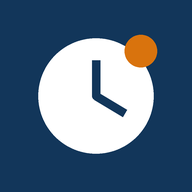
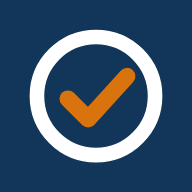
Agregar edición, confirmación al quitar, sonido prolongado e íconos nuevos

diff --git a/app.js b/app.js
@@ -7,7 +7,7 @@ function fresh(){return {account:null,caregiver:null,meds:[],appts:[],log:{},dem
 function load(){try{var s=localStorage.getItem(KEY);if(s)return JSON.parse(s)}catch(e){}return mem||fresh()}
 var S=load();
 function save(){mem=S;try{localStorage.setItem(KEY,JSON.stringify(S))}catch(e){}}
-var tab='hoy', addKind='med', queue=[], modalOpen=false, audioCtx=null, toastT=null, extraTimes=1;
+var tab='hoy', addKind='med', queue=[], modalOpen=false, audioCtx=null, toastT=null, extraTimes=1, editing=null;
 
 /* ---------- utilidades ---------- */
 function esc(s){return String(s==null?'':s).replace(/[&<>"']/g,function(c){return {'&':'&amp;','<':'&lt;','>':'&gt;','"':'&quot;',"'":'&#39;'}[c]})}
@@ -47,6 +47,14 @@ function beep(){try{audioCtx=audioCtx||new (window.AudioContext||window.webkitAu
   [0,.28,.56].forEach(function(o){var s=audioCtx.createOscillator(),g=audioCtx.createGain();s.frequency.value=880;s.connect(g);g.connect(audioCtx.destination);
     g.gain.setValueAtTime(.0001,t+o);g.gain.exponentialRampToValueAtTime(.25,t+o+.03);g.gain.exponentialRampToValueAtTime(.0001,t+o+.22);s.start(t+o);s.stop(t+o+.25)})}catch(e){}
   try{navigator.vibrate&&navigator.vibrate([200,100,200])}catch(e){}}
+/* alarma del recordatorio: se repite cerca de un minuto o hasta que la persona toque un botón */
+var alarmT=null, ALARM_MAX=24;
+function ringOnce(){try{audioCtx=audioCtx||new (window.AudioContext||window.webkitAudioContext)();if(audioCtx.state==='suspended')audioCtx.resume();var t=audioCtx.currentTime;
+  [[880,0],[1047,.4],[1319,.8]].forEach(function(n){var s=audioCtx.createOscillator(),g=audioCtx.createGain();s.type='square';s.frequency.value=n[0];s.connect(g);g.connect(audioCtx.destination);
+    g.gain.setValueAtTime(.0001,t+n[1]);g.gain.exponentialRampToValueAtTime(.2,t+n[1]+.03);g.gain.setValueAtTime(.2,t+n[1]+.3);g.gain.exponentialRampToValueAtTime(.0001,t+n[1]+.38);s.start(t+n[1]);s.stop(t+n[1]+.4)})}catch(e){}
+  try{navigator.vibrate&&navigator.vibrate([400,150,400,150,400])}catch(e){}}
+function startAlarm(){stopAlarm();var n=0;ringOnce();alarmT=setInterval(function(){n++;if(n>=ALARM_MAX){stopAlarm();return}ringOnce()},2500)}
+function stopAlarm(){if(alarmT){clearInterval(alarmT);alarmT=null}try{navigator.vibrate&&navigator.vibrate(0)}catch(e){}}
 function notify(d){try{if(window.Notification&&Notification.permission==='granted')new Notification('Es hora de su medicamento',{body:d.name+(d.dose?' · '+d.dose:'')})}catch(e){}}
 
 /* ---------- recordatorio (ventana) ---------- */
@@ -59,13 +67,20 @@ function tick(){
   if(!modalOpen&&queue.length)showReminder(queue.shift());
   if(tab==='hoy'&&!modalOpen)render(true)}
 function showReminder(key){var d=doses().filter(function(x){return x.key===key})[0];if(!d||status(d)==='taken'){modalOpen=false;return}
-  modalOpen=true;beep();
+  modalOpen=true;startAlarm();
   document.getElementById('layer').innerHTML='<div class="scrim"><div class="modal" role="dialog" aria-modal="true" aria-label="Recordatorio de medicamento">'+
    '<h2>Es hora de su medicamento</h2><div><div class="big">'+esc(fmtTime(d.due))+'</div><div class="name" style="font-size:1.4rem;font-weight:700">'+esc(d.name)+'</div><div class="muted">'+esc(d.dose||'')+'</div></div>'+
    '<button class="btn ok" data-act="take" data-key="'+esc(key)+'" style="min-height:76px;font-size:1.5rem">YA LO TOMÉ</button>'+
    '<button class="btn ghost" data-act="snooze" data-key="'+esc(key)+'">Recordarme en '+(d.demo?'10 segundos':'10 minutos')+'</button>'+
    '<p class="small muted">Si no confirma en '+(d.demo?'20 segundos':S.settings.graceMin+' minutos')+', se prepara un aviso para su cuidador.</p></div></div>'}
-function closeModal(){modalOpen=false;document.getElementById('layer').innerHTML='';if(queue.length)setTimeout(function(){if(!modalOpen&&queue.length)showReminder(queue.shift())},300)}
+function askDelete(kind,id){var it=(kind==='med'?S.meds:S.appts).filter(function(x){return x.id===id})[0];if(!it)return;
+  modalOpen=true;
+  document.getElementById('layer').innerHTML='<div class="scrim"><div class="modal" role="alertdialog" aria-modal="true" aria-label="Confirmar">'+
+   '<h2>'+(kind==='med'?'¿Quitar este medicamento?':'¿Quitar este control?')+'</h2><div class="name" style="font-size:1.4rem;font-weight:700">'+esc(kind==='med'?it.name:it.title)+'</div>'+
+   '<p class="muted">'+(kind==='med'?'Se borrará de su lista y no volverá a sonar.':'Se borrará de su lista de controles.')+'</p>'+
+   '<button class="btn" data-act="closemodal" style="min-height:64px">No, dejarlo</button>'+
+   '<button class="btn warn" data-act="confdel" data-k="'+kind+'" data-id="'+esc(id)+'">Sí, quitar</button></div></div>'}
+function closeModal(){stopAlarm();modalOpen=false;document.getElementById('layer').innerHTML='';if(queue.length)setTimeout(function(){if(!modalOpen&&queue.length)showReminder(queue.shift())},300)}
 
 /* ---------- vistas ---------- */
 var LOGO='<svg class="logo" viewBox="0 0 40 40" aria-hidden="true"><rect width="40" height="40" rx="11" fill="var(--primary)"/><circle cx="20" cy="20" r="10.5" fill="none" stroke="var(--on-primary)" stroke-width="2.6"/><path d="M15 20.5l3.6 3.6L25.5 16.5" fill="none" stroke="var(--accent)" stroke-width="3" stroke-linecap="round" stroke-linejoin="round"/></svg>';
@@ -99,19 +114,27 @@ function viewHoy(){
     (st==='taken'?'<button class="link" data-act="undo" data-key="'+esc(d.key)+'">Deshacer</button>':
      (st==='due'||st==='missed'?'<button class="btn ok" style="flex:1" data-act="take" data-key="'+esc(d.key)+'">Ya lo tomé</button>':'<button class="btn ghost sm" data-act="take" data-key="'+esc(d.key)+'">Marcar como tomado</button>'))+'</div></div>'});
   var up=S.appts.filter(function(a){return a.date>=dkey()}).sort(function(a,b){return (a.date+a.time)<(b.date+b.time)?-1:1});
-  h+='<div class="card"><h2 style="margin-bottom:10px">Próximos controles</h2>'+(up.length?'<div class="list">'+up.slice(0,4).map(function(a){return '<div class="item"><div><b>'+esc(a.title)+'</b><div class="muted small">'+esc(fmtDate(a.date))+' · '+esc(fmtHM(a.time))+(a.place?' · '+esc(a.place):'')+'</div></div><button class="x" aria-label="Quitar cita" data-act="delappt" data-id="'+a.id+'">×</button></div>'}).join('')+'</div>':'<p class="muted">No hay controles agendados.</p>')+'</div>';
-  if(S.meds.length){h+='<div class="card"><h2 style="margin-bottom:10px">Mis medicamentos</h2><div class="list">'+S.meds.map(function(m){return '<div class="item"><div><b>'+esc(m.name)+'</b><div class="muted small">'+esc(m.dose||'')+' · '+m.times.map(fmtHM).map(esc).join(', ')+'</div></div><button class="x" aria-label="Quitar medicamento" data-act="delmed" data-id="'+m.id+'">×</button></div>'}).join('')+'</div></div>'}
+  h+='<div class="card"><h2 style="margin-bottom:10px">Próximos controles</h2>'+(up.length?'<div class="list">'+up.slice(0,4).map(function(a){return '<div class="item"><div><b>'+esc(a.title)+'</b><div class="muted small">'+esc(fmtDate(a.date))+' · '+esc(fmtHM(a.time))+(a.place?' · '+esc(a.place):'')+'</div></div><div class="acts"><button class="btn ghost sm" data-act="edit" data-k="cita" data-id="'+a.id+'" aria-label="Editar control">Editar</button><button class="x" aria-label="Quitar cita" data-act="delappt" data-id="'+a.id+'">×</button></div></div>'}).join('')+'</div>':'<p class="muted">No hay controles agendados.</p>')+'</div>';
+  if(S.meds.length){h+='<div class="card"><h2 style="margin-bottom:10px">Mis medicamentos</h2><div class="list">'+S.meds.map(function(m){return '<div class="item"><div><b>'+esc(m.name)+'</b><div class="muted small">'+esc(m.dose||'')+' · '+m.times.map(fmtHM).map(esc).join(', ')+'</div></div><div class="acts"><button class="btn ghost sm" data-act="edit" data-k="med" data-id="'+m.id+'" aria-label="Editar medicamento">Editar</button><button class="x" aria-label="Quitar medicamento" data-act="delmed" data-id="'+m.id+'">×</button></div></div>'}).join('')+'</div></div>'}
   return h+'</div>'}
 function timeRow(v){return '<div class="trow"><input type="time" name="time" required value="'+esc(v||'08:00')+'" aria-label="Hora de toma"><button type="button" class="x" aria-label="Quitar hora" data-act="rmtime">×</button></div>'}
 function viewAgregar(){
-  var h=top()+'<div class="stack"><h1>Agregar</h1><div class="seg" role="group" aria-label="Qué desea agregar"><button data-act="kind" data-k="med" aria-pressed="'+(addKind==='med')+'">Medicamento</button><button data-act="kind" data-k="cita" aria-pressed="'+(addKind==='cita')+'">Control o cita</button></div>';
-  if(addKind==='med'){h+='<form class="card" data-form="med" autocomplete="off"><div class="field"><label for="m-name">Nombre del medicamento</label><input id="m-name" name="name" required maxlength="60" placeholder="Ejemplo: Losartán"></div>'+
-   '<div class="field"><label for="m-dose">Dosis</label><input id="m-dose" name="dose" maxlength="60" placeholder="Ejemplo: 1 tableta de 50 mg"></div>'+
-   '<div class="field times"><label>Horas de toma (todos los días)</label><div id="times">'+timeRow('08:00')+'</div><button type="button" class="btn ghost sm" data-act="addtime">+ Otra hora</button></div>'+
-   '<button class="btn" type="submit">Guardar medicamento</button><p class="hint">Escriba lo que el médico formuló. Salud Conecta no sugiere dosis.</p></form>'}
-  else{h+='<form class="card" data-form="appt" autocomplete="off"><div class="field"><label for="a-t">¿Qué control es?</label><input id="a-t" name="title" required maxlength="70" placeholder="Ejemplo: Control de medicina general"></div>'+
-   '<div class="field"><label for="a-d">Fecha</label><input id="a-d" name="date" type="date" required min="'+dkey()+'"></div><div class="field"><label for="a-h">Hora</label><input id="a-h" name="time" type="time" required value="09:00"></div>'+
-   '<div class="field"><label for="a-p">Lugar (opcional)</label><input id="a-p" name="place" maxlength="70" placeholder="Ejemplo: IPS Centro"></div><button class="btn" type="submit">Guardar control</button></form>'}
+  var em=null,ea=null;
+  if(editing){if(editing.kind==='med')em=S.meds.filter(function(m){return m.id===editing.id})[0]||null;else ea=S.appts.filter(function(m){return m.id===editing.id})[0]||null;if(!em&&!ea)editing=null}
+  var ed=!!editing, kind=ed?editing.kind:addKind;
+  var h=top()+'<div class="stack"><h1>'+(ed?(kind==='med'?'Editar medicamento':'Editar control'):'Agregar')+'</h1>';
+  if(!ed)h+='<div class="seg" role="group" aria-label="Qué desea agregar"><button data-act="kind" data-k="med" aria-pressed="'+(addKind==='med')+'">Medicamento</button><button data-act="kind" data-k="cita" aria-pressed="'+(addKind==='cita')+'">Control o cita</button></div>';
+  var cancel=ed?'<button type="button" class="btn ghost" data-act="canceledit">Cancelar</button>':'';
+  if(kind==='med'){
+    var times=em?em.times:['08:00'];
+    h+='<form class="card" data-form="med" autocomplete="off"><div class="field"><label for="m-name">Nombre del medicamento</label><input id="m-name" name="name" required maxlength="60" placeholder="Ejemplo: Losartán" value="'+esc(em?em.name:'')+'"></div>'+
+     '<div class="field"><label for="m-dose">Dosis</label><input id="m-dose" name="dose" maxlength="60" placeholder="Ejemplo: 1 tableta de 50 mg" value="'+esc(em?em.dose||'':'')+'"></div>'+
+     '<div class="field times"><label>Horas de toma (todos los días)</label><div id="times">'+times.map(timeRow).join('')+'</div><button type="button" class="btn ghost sm" data-act="addtime">+ Otra hora</button></div>'+
+     '<button class="btn" type="submit">'+(ed?'Guardar cambios':'Guardar medicamento')+'</button>'+cancel+'<p class="hint">Escriba lo que el médico formuló. Salud Conecta no sugiere dosis.</p></form>'}
+  else{
+    h+='<form class="card" data-form="appt" autocomplete="off"><div class="field"><label for="a-t">¿Qué control es?</label><input id="a-t" name="title" required maxlength="70" placeholder="Ejemplo: Control de medicina general" value="'+esc(ea?ea.title:'')+'"></div>'+
+     '<div class="field"><label for="a-d">Fecha</label><input id="a-d" name="date" type="date" required'+(ed?'':' min="'+dkey()+'"')+' value="'+esc(ea?ea.date:'')+'"></div><div class="field"><label for="a-h">Hora</label><input id="a-h" name="time" type="time" required value="'+esc(ea?ea.time:'09:00')+'"></div>'+
+     '<div class="field"><label for="a-p">Lugar (opcional)</label><input id="a-p" name="place" maxlength="70" placeholder="Ejemplo: IPS Centro" value="'+esc(ea?ea.place||'':'')+'"></div><button class="btn" type="submit">'+(ed?'Guardar cambios':'Guardar control')+'</button>'+cancel+'</form>'}
   return h+'</div>'}
 function viewCuidador(){var c=S.caregiver||{};
   return top()+'<div class="stack"><h1>Cuidador y ajustes</h1>'+
@@ -155,7 +178,7 @@ function render(keepScroll){
   if(!S.account)html=viewWelcome();else if(!S.loggedIn)html=viewLogin();
   else html=({hoy:viewHoy,agregar:viewAgregar,cuidador:viewCuidador,prueba:viewPrueba})[tab]()+nav();
   app.innerHTML=html;if(keepScroll)window.scrollTo(0,y);}
-function go(t){tab=t;if(t==='agregar'&&!S.metrics.addStart){S.metrics.addStart=Date.now();save()}render();window.scrollTo(0,0)}
+function go(t){editing=null;tab=t;if(t==='agregar'&&!S.metrics.addStart){S.metrics.addStart=Date.now();save()}render();window.scrollTo(0,0)}
 
 /* ---------- acciones ---------- */
 function setTaken(key,on){var l=S.log[key]||(S.log[key]={});if(on){l.taken=Date.now();mark('taken')}else{delete l.taken}save()}
@@ -167,11 +190,15 @@ document.addEventListener('click',function(e){
   if(a==='snooze'){var d=doses().filter(function(x){return x.key===key})[0],l=S.log[key]||(S.log[key]={});l.snooze=Date.now()+(d?d.snooze:600000);l.reminded=null;save();closeModal();render();toast('Le recordaremos de nuevo');return}
   if(a==='alerted'){var l2=S.log[key]||(S.log[key]={});l2.alerted=Date.now();save();setTimeout(function(){render()},400);return}
   if(a==='copymsg'){var d2=doses().filter(function(x){return x.key===key})[0];if(d2){copy(cgMessage(d2),'Mensaje copiado');var l3=S.log[key]||(S.log[key]={});l3.alerted=Date.now();save();render()}return}
+  if(a==='edit'){editing={kind:b.getAttribute('data-k'),id:b.getAttribute('data-id')};addKind=editing.kind;tab='agregar';render();window.scrollTo(0,0);return}
+  if(a==='canceledit'){editing=null;tab='hoy';render();window.scrollTo(0,0);return}
   if(a==='kind'){addKind=b.getAttribute('data-k');render();return}
   if(a==='addtime'){document.getElementById('times').insertAdjacentHTML('beforeend',timeRow('20:00'));return}
   if(a==='rmtime'){var rows=document.querySelectorAll('#times .trow');if(rows.length>1)b.closest('.trow').remove();return}
-  if(a==='delmed'){S.meds=S.meds.filter(function(m){return m.id!==b.getAttribute('data-id')});save();render();return}
-  if(a==='delappt'){S.appts=S.appts.filter(function(m){return m.id!==b.getAttribute('data-id')});save();render();return}
+  if(a==='delmed'){askDelete('med',b.getAttribute('data-id'));return}
+  if(a==='delappt'){askDelete('cita',b.getAttribute('data-id'));return}
+  if(a==='closemodal'){closeModal();return}
+  if(a==='confdel'){var id=b.getAttribute('data-id');if(b.getAttribute('data-k')==='med')S.meds=S.meds.filter(function(m){return m.id!==id});else S.appts=S.appts.filter(function(m){return m.id!==id});save();closeModal();render();toast('Quitado');return}
   if(a==='demo'){S.demo.push({id:uid(),name:'Medicamento de prueba',dose:'1 tableta',due:Date.now()+20000});save();toast('Suena en 20 segundos. Vuelva a la pestaña «Hoy».');go('hoy');return}
   if(a==='notif'){try{Notification.requestPermission().then(function(r){toast(r==='granted'?'Avisos del navegador activados':'No se activaron los avisos del navegador')})}catch(err){toast('Su navegador no permite estos avisos aquí')}return}
   if(a==='logout'){S.loggedIn=false;save();render();return}
@@ -187,9 +214,14 @@ document.addEventListener('submit',async function(e){
     S.loggedIn=true;S.metrics.regMs=Date.now()-S.metrics.openedAt;mark('account');save();tab='hoy';render();toast('Cuenta creada. Agregue su primer medicamento.');return}
   if(n==='login'){var h=await sha(fd.get('pass'));if(S.account.hash==='sample'||h===S.account.hash){S.loggedIn=true;save();render()}else toast('La contraseña no coincide');return}
   if(n==='med'){var times=fd.getAll('time').filter(Boolean);times=times.filter(function(v,i){return times.indexOf(v)===i});
+    if(editing&&editing.kind==='med'){var em=S.meds.filter(function(m){return m.id===editing.id})[0];
+      if(em){var nt=times.sort(),chg=nt.join()!==em.times.join();em.name=String(fd.get('name')).trim();em.dose=String(fd.get('dose')||'').trim();em.times=nt;if(chg)em.created=Date.now();
+        editing=null;save();tab='hoy';render();window.scrollTo(0,0);toast('Cambios guardados');return}}
     S.meds.push({id:uid(),created:Date.now(),name:String(fd.get('name')).trim(),dose:String(fd.get('dose')||'').trim(),times:times.sort()});
     if(S.metrics.firstMedMs==null&&S.metrics.addStart){S.metrics.firstMedMs=Date.now()-S.metrics.addStart}mark('med');save();tab='hoy';render();window.scrollTo(0,0);toast('Medicamento guardado');return}
-  if(n==='appt'){S.appts.push({id:uid(),title:String(fd.get('title')).trim(),date:fd.get('date'),time:fd.get('time'),place:String(fd.get('place')||'').trim()});mark('appt');save();tab='hoy';render();window.scrollTo(0,0);toast('Control guardado');return}
+  if(n==='appt'){if(editing&&editing.kind==='cita'){var ea2=S.appts.filter(function(m){return m.id===editing.id})[0];
+      if(ea2){ea2.title=String(fd.get('title')).trim();ea2.date=fd.get('date');ea2.time=fd.get('time');ea2.place=String(fd.get('place')||'').trim();editing=null;save();tab='hoy';render();window.scrollTo(0,0);toast('Cambios guardados');return}}
+    S.appts.push({id:uid(),title:String(fd.get('title')).trim(),date:fd.get('date'),time:fd.get('time'),place:String(fd.get('place')||'').trim()});mark('appt');save();tab='hoy';render();window.scrollTo(0,0);toast('Control guardado');return}
   if(n==='cg'){S.caregiver={name:String(fd.get('name')||'').trim(),contact:String(fd.get('contact')||'').trim()};S.settings.graceMin=Number(fd.get('grace'))||15;save();toast('Cuidador guardado');return}
   if(n==='fb'){var fb=S.metrics.feedback||(S.metrics.feedback={});fb.comment=String(fd.get('comment')||'').trim();save();toast('Opinión guardada');render()}
 });

diff --git a/styles.css b/styles.css
@@ -89,6 +89,7 @@ input[type=checkbox]{width:26px;height:26px;min-height:0;flex:none;accent-color:
 .times .trow{display:flex;gap:8px;margin-bottom:8px}
 .times .trow input{flex:1}
 .x{min-height:52px;width:52px;border-radius:12px;border:2px solid var(--line);background:var(--surface);cursor:pointer;font-size:1.3rem;font-weight:700}
+.acts{display:flex;gap:8px;align-items:center;flex-shrink:0}
 .list{display:flex;flex-direction:column;gap:10px}
 .item{display:flex;gap:12px;align-items:center;justify-content:space-between;border-top:1px solid var(--line);padding-top:10px}
 .item:first-child{border-top:0;padding-top:0}

diff --git a/sw.js b/sw.js
@@ -1,7 +1,7 @@
 // Service worker de Salud Conecta (MVP).
 // Guarda en caché lo básico para poder abrir la app sin conexión.
 // Si cambia el código, sube el número de versión para que se actualice.
-const VERSION = 'saludconecta-v3';
+const VERSION = 'saludconecta-v6';
 const CORE = ['/', '/index.html', '/styles.css', '/app.js', '/manifest.webmanifest', '/icons/icon-192.png', '/icons/icon-512.png'];
 
 self.addEventListener('install', (e) => {
